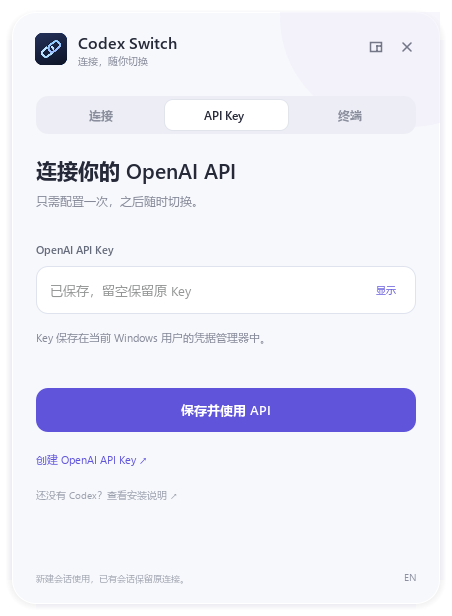
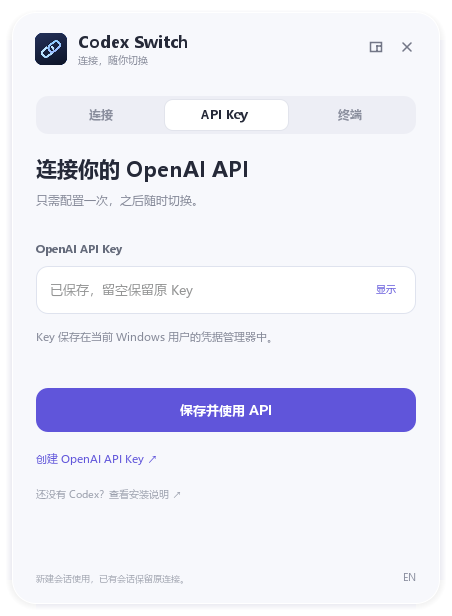
fix: prevent overlapping page transitions and unify Chinese fonts

diff --git a/ui/Main.qml b/ui/Main.qml
@@ -12,6 +12,8 @@ Window {
     title: "Codex Switch"
     flags: Qt.Window | Qt.FramelessWindowHint
     property string page: bridge.state.api_ready ? "connections" : "key"
+    property string displayedPage: ""
+    property bool sceneReady: false
     property bool showKey: false
     readonly property color accent: "#6055da"
     readonly property color ink: "#252938"
@@ -29,7 +31,18 @@ Window {
         if (visibility === Window.Minimized && !bridge.testingMode) bridge.hideToTray()
         if (visible) appear.restart()
     }
-    onPageChanged: { if (page !== "key") { keyField.clear(); showKey = false } }
+    Component.onCompleted: { displayedPage = page; sceneReady = true }
+    onPageChanged: {
+        if (page !== "key") { keyField.clear(); showKey = false }
+        if (sceneReady && visible) pageTransition.restart()
+        else displayedPage = page
+    }
+    SequentialAnimation {
+        id: pageTransition
+        NumberAnimation { target: pages; property: "opacity"; to: 0; duration: 70; easing.type: Easing.OutQuad }
+        ScriptAction { script: root.displayedPage = root.page }
+        NumberAnimation { target: pages; property: "opacity"; to: 1; duration: 110; easing.type: Easing.OutCubic }
+    }
 
     Connections {
         target: bridge
@@ -184,7 +197,6 @@ Window {
             NumberAnimation { target: panel; property: "opacity"; from: 0; to: 1; duration: 150; easing.type: Easing.OutCubic }
             NumberAnimation { target: panel; property: "scale"; from: 0.98; to: 1; duration: 190; easing.type: Easing.OutCubic }
         }
-        Rectangle { x: parent.width - 160; y: -105; width: 240; height: 220; radius: 110; color: "#eeeafa"; opacity: 0.45 }
         MouseArea { x: 0; y: 0; width: parent.width; height: 76; onPressed: root.startSystemMove() }
         Image { x: 22; y: 20; width: 34; height: 34; source: bridge.logoUrl; smooth: true; mipmap: true }
         Text { x: 66; y: 20; text: "Codex Switch"; color: root.ink; font.family: bridge.fontFamily; font.pixelSize: 16; font.weight: Font.DemiBold }
@@ -218,14 +230,13 @@ Window {
         Item {
             id: pages
             visible: !bridge.compact
+            enabled: !pageTransition.running
             x: 24; y: 144; width: parent.width - 48; height: parent.height - 210
             Item {
                 id: connectionsPage
                 objectName: "connectionsPage"
                 anchors.fill: parent
-                opacity: root.page === "connections" ? 1 : 0
-                visible: opacity > 0; enabled: root.page === "connections"
-                Behavior on opacity { NumberAnimation { duration: 140 } }
+                visible: root.displayedPage === "connections"
                 Rectangle {
                     width: parent.width; height: 144; radius: 18; color: "white"; border.color: "#e4e6ef"
                     Text { x: 20; y: 18; text: root.t("当前连接配置", "CURRENT CONFIGURATION"); color: root.muted; font.family: bridge.fontFamily; font.pixelSize: 10; font.letterSpacing: 0.4 }
@@ -243,9 +254,7 @@ Window {
                 id: keyPage
                 objectName: "keyPage"
                 anchors.fill: parent
-                opacity: root.page === "key" ? 1 : 0
-                visible: opacity > 0; enabled: root.page === "key"
-                Behavior on opacity { NumberAnimation { duration: 140 } }
+                visible: root.displayedPage === "key"
                 Text { text: root.t("连接你的 OpenAI API", "Connect your OpenAI API"); color: root.ink; font.family: bridge.fontFamily; font.pixelSize: 21; font.weight: Font.DemiBold }
                 Text { y: 37; width: parent.width; text: root.t("只需配置一次，之后随时切换。", "Set up once. Switch whenever you need."); color: root.muted; font.family: bridge.fontFamily; font.pixelSize: 12; wrapMode: Text.WordWrap }
                 Text { y: 86; text: "OpenAI API Key"; color: "#656b7b"; font.family: bridge.fontFamily; font.pixelSize: 11; font.weight: Font.DemiBold }
@@ -277,9 +286,7 @@ Window {
                 id: terminalPage
                 objectName: "terminalPage"
                 anchors.fill: parent
-                opacity: root.page === "terminal" ? 1 : 0
-                visible: opacity > 0; enabled: root.page === "terminal"
-                Behavior on opacity { NumberAnimation { duration: 140 } }
+                visible: root.displayedPage === "terminal"
                 Text { text: root.t("终端里，也很顺手", "Just as easy in your terminal"); color: root.ink; font.family: bridge.fontFamily; font.pixelSize: 20; font.weight: Font.DemiBold }
                 Text { y: 36; width: parent.width; text: root.t("安装后重新打开终端，即可使用。", "Open a new terminal after installation."); color: root.muted; font.family: bridge.fontFamily; font.pixelSize: 11; wrapMode: Text.WordWrap }
                 Column {

diff --git a/src/codex_switch/gui.py b/src/codex_switch/gui.py
@@ -80,6 +80,8 @@ class Bridge(QObject):
         self._language = "zh" if testing else self.settings.value("language", "zh")
         self._compact = False if testing else self.settings.value("compact", False, type=bool)
         self._font_family = "Segoe UI Variable Text" if "Segoe UI Variable Text" in QFontDatabase.families() else "Segoe UI"
+        families = QFontDatabase.families()
+        self._chinese_font = next((font for font in ("Microsoft YaHei UI", "Microsoft YaHei") if font in families), self._font_family)
         self._state = {"mode": "account", "api_ready": False, "key_saved": False, "profile_override": None}
         self.pool = ThreadPoolExecutor(max_workers=1, thread_name_prefix="local-config")
         self._completed.connect(self._apply_result)
@@ -132,9 +134,9 @@ class Bridge(QObject):
     def logoUrl(self):
         return QUrl.fromLocalFile(str(resources() / "assets" / "logo.png")).toString()
 
-    @Property(str, constant=True)
+    @Property(str, notify=languageChanged)
     def fontFamily(self):
-        return self._font_family
+        return self._chinese_font if self._language == "zh" else self._font_family
 
     def tr_text(self, zh, en):
         return zh if self._language == "zh" else en
@@ -459,6 +461,7 @@ def self_test(report):
             service = SwitchService(Path(home), credentials=MemoryCredentials(), track=False)
             model = Bridge(service, testing=True)
             engine, window = load_scene(model)
+            window.show()
             app.processEvents()
             names = ("connectionsPage", "keyPage", "terminalPage", "selectionPill", "apiKeyField")
             objects = {name: window.findChild(QObject, name) for name in names}
@@ -490,6 +493,21 @@ def self_test(report):
             for name, original in objects.items():
                 if window.findChild(QObject, name) is not original:
                     raise RuntimeError("A state update rebuilt the scene.")
+            for page in ("key", "terminal", "connections"):
+                samples = []
+                loop = QEventLoop()
+                sample_timer = QTimer()
+                sample_timer.setInterval(8)
+                sample_timer.timeout.connect(lambda: samples.append(sum(
+                    bool(objects[name].property("visible"))
+                    for name in ("connectionsPage", "keyPage", "terminalPage"))))
+                sample_timer.start()
+                model.openPage.emit(page)
+                QTimer.singleShot(300, loop.quit)
+                loop.exec()
+                sample_timer.stop()
+                if not samples or max(samples) > 1 or not objects[page + "Page"].property("visible"):
+                    raise RuntimeError("Page transitions overlap or fail to reveal the destination.")
             model.toggleCompact()
             app.processEvents()
             if window.width() != 372 or window.height() != 302:
@@ -503,6 +521,7 @@ def self_test(report):
             server.close()
             result = {"ok": True, "version": __version__, "qt": pyside_version,
                       "persistent_controls": True, "async_switching": True,
+                      "page_transition_no_overlap": True,
                       "mini_window": True, "single_instance": True, "setup_entry_count": 1}
             model.shutdown()
             model = None

diff --git a/scripts/gui_smoke.py b/scripts/gui_smoke.py
@@ -14,4 +14,5 @@ with tempfile.TemporaryDirectory(prefix="codex-switch-gui-report-") as temporary
     if not data.get("ok"):
         raise SystemExit("Frozen GUI startup failed: " + str(data.get("error_type")))
     assert data["persistent_controls"] and data["async_switching"] and data["mini_window"]
+    assert data["page_transition_no_overlap"]
     print("Packaged Qt " + data["qt"] + " GUI passed: persistent scene, async switching, mini window.")

diff --git a/src/codex_switch/__init__.py b/src/codex_switch/__init__.py
@@ -1,3 +1,3 @@
 """Codex Switch: local account/API provider management for Windows."""
 
-__version__ = "0.2.0"
+__version__ = "0.2.1"

diff --git a/docs/validation.md b/docs/validation.md
@@ -1,17 +1,19 @@
-# v0.2.0 验证记录
+# v0.2.1 验证记录
 
 环境：Windows 11 x64，Python 3.14，PySide6 / Qt 6.12.0，PyInstaller 6.22.3，Inno Setup 7。Windows 10 尚未独立实机验收。
 
 ## 自动验证
 
 - 17 项服务测试覆盖配置格式/编码保留、独立 Windows 凭据读写、失败回滚、模型与 auth.json 保留、并发修改检测、Profile 覆盖保护、第三方提供商与卸载清理。
-- Qt 离屏自检加载真实 QML，完成 Key 配置及账号/API 异步往返，确认控件对象始终为同一实例、没有模型字段、372 × 302 小窗几何和单实例唤回协议。
+- Qt 离屏自检加载真实 QML，完成 Key 配置及账号/API 异步往返，确认控件对象始终为同一实例、没有模型字段、372 × 302 小窗几何和单实例唤回协议；每 8 ms 采样页面切换，确认没有新旧页面同时显示，目标页面最终可见。
 - 离屏渲染中文连接、Key、终端、英文终端及迷你窗口，用于检查排版、图标与控件重叠。这不是实际托盘点击或动画流畅度的实机验收。
 - 构建脚本运行服务测试、冻结 GUI 自检、打包 CLI 的隔离配置往返及凭据清理；CLI 排除 Qt，避免命令取钥加载图形运行库。
 - GitHub Windows CI 另运行隔离安装/卸载，检查 PATH、配置恢复和凭据清理。以对应提交的 CI 结果为准。
 
 ## 实机验收边界
 
-开发时已确认源程序注册 Windows 托盘，安全状态协议返回托盘可见。后续桌面锁定，尚未完成最终版本的实际托盘点击、窗口收起和动画主观流畅度验收。此记录不将离屏结果当作实机交互通过。
+已在安装版实机点击完成完整面板 → 迷你窗口 → 展开、关闭隐藏，以及隔离配置中的账号/API 往返。点击关闭后安全状态协议确认窗口不可见、进程和托盘仍在运行。验收发现并修复页面过渡叠字、中文字体回退和圆角装饰溢出。
+
+Windows 通知区域未被当前 UI 自动化接口暴露为可操作窗口，因此没有宣称已点击托盘图标或菜单。静态截图及页面可见性采样不能代替帧率测量；未做所有硬件上的动画性能保证。
 
 所有自动测试使用隔离配置和占位 Key，不调用付费模型，不验证真实 Key、额度、具体模型或速度档位。没有重启 Codex。工具显示全局配置，不能证明已有聊天或菜单缓存已热切换。安装包未购买商业代码签名。

diff --git a/docs/release-notes.md b/docs/release-notes.md
@@ -1,13 +1,10 @@
-## Codex Switch v0.2.0
+## Codex Switch v0.2.1
 
-- 重做为 Qt Quick 界面：常驻控件、异步保存、滑块与淡入淡出过渡，静默刷新不再闪动保存状态。
-- 新增迷你窗口、Windows 系统托盘、托盘菜单切换与重复启动唤回。关闭窗口收进托盘，右键菜单可退出。
-- 统一原创多尺寸图标、安装器和快捷方式的 Windows 应用标识。
-- API Key 配置整合到同一面板，移除「初始模型」字段及 CLI `setup --model`；保留原模型配置，模型和推理档位在 Codex 中选择。
-- 终端命令继续可用。界面运行库随包附带，无需安装 Python。
+- 页面切换改为先淡出再淡入，消除 Key、连接与终端页面在过渡中叠字的问题。
+- 中文界面明确使用微软雅黑字体，修复标题意外回退到宋体。
+- 去除越过圆角的装饰背景，保持四角形状一致。
+- 增加过渡采样自检：切换期间最多只显示一个页面，并确认目标页面可见。
 
-快捷键：Ctrl+M 收进托盘，Ctrl+Shift+M 切换小窗，Ctrl+Q 退出。托盘图标可能藏在 Windows 任务栏的隐藏图标中。
+保留 v0.2.0 的迷你窗口、托盘切换、单实例唤回和终端命令。模型与推理档位仍在 Codex 中选择。切换后请新建 Codex 会话。
 
-切换后请新建 Codex 会话，已有会话保留原来源。API 权限与额度以自己的 OpenAI 项目为准；不发送付费请求验证。
-
-Persistent Qt Quick UI with animated transitions, asynchronous configuration changes, a mini window, native Windows tray switching and single-instance activation. New application icon throughout. API setup preserves model settings; choose models in Codex. Windows 10/11 x64.
+Page transitions now fade out before fading in, preventing overlapping text. Consistent Chinese sans-serif fonts and rounded corners. Adds transition visibility checks. Windows 10/11 x64.
